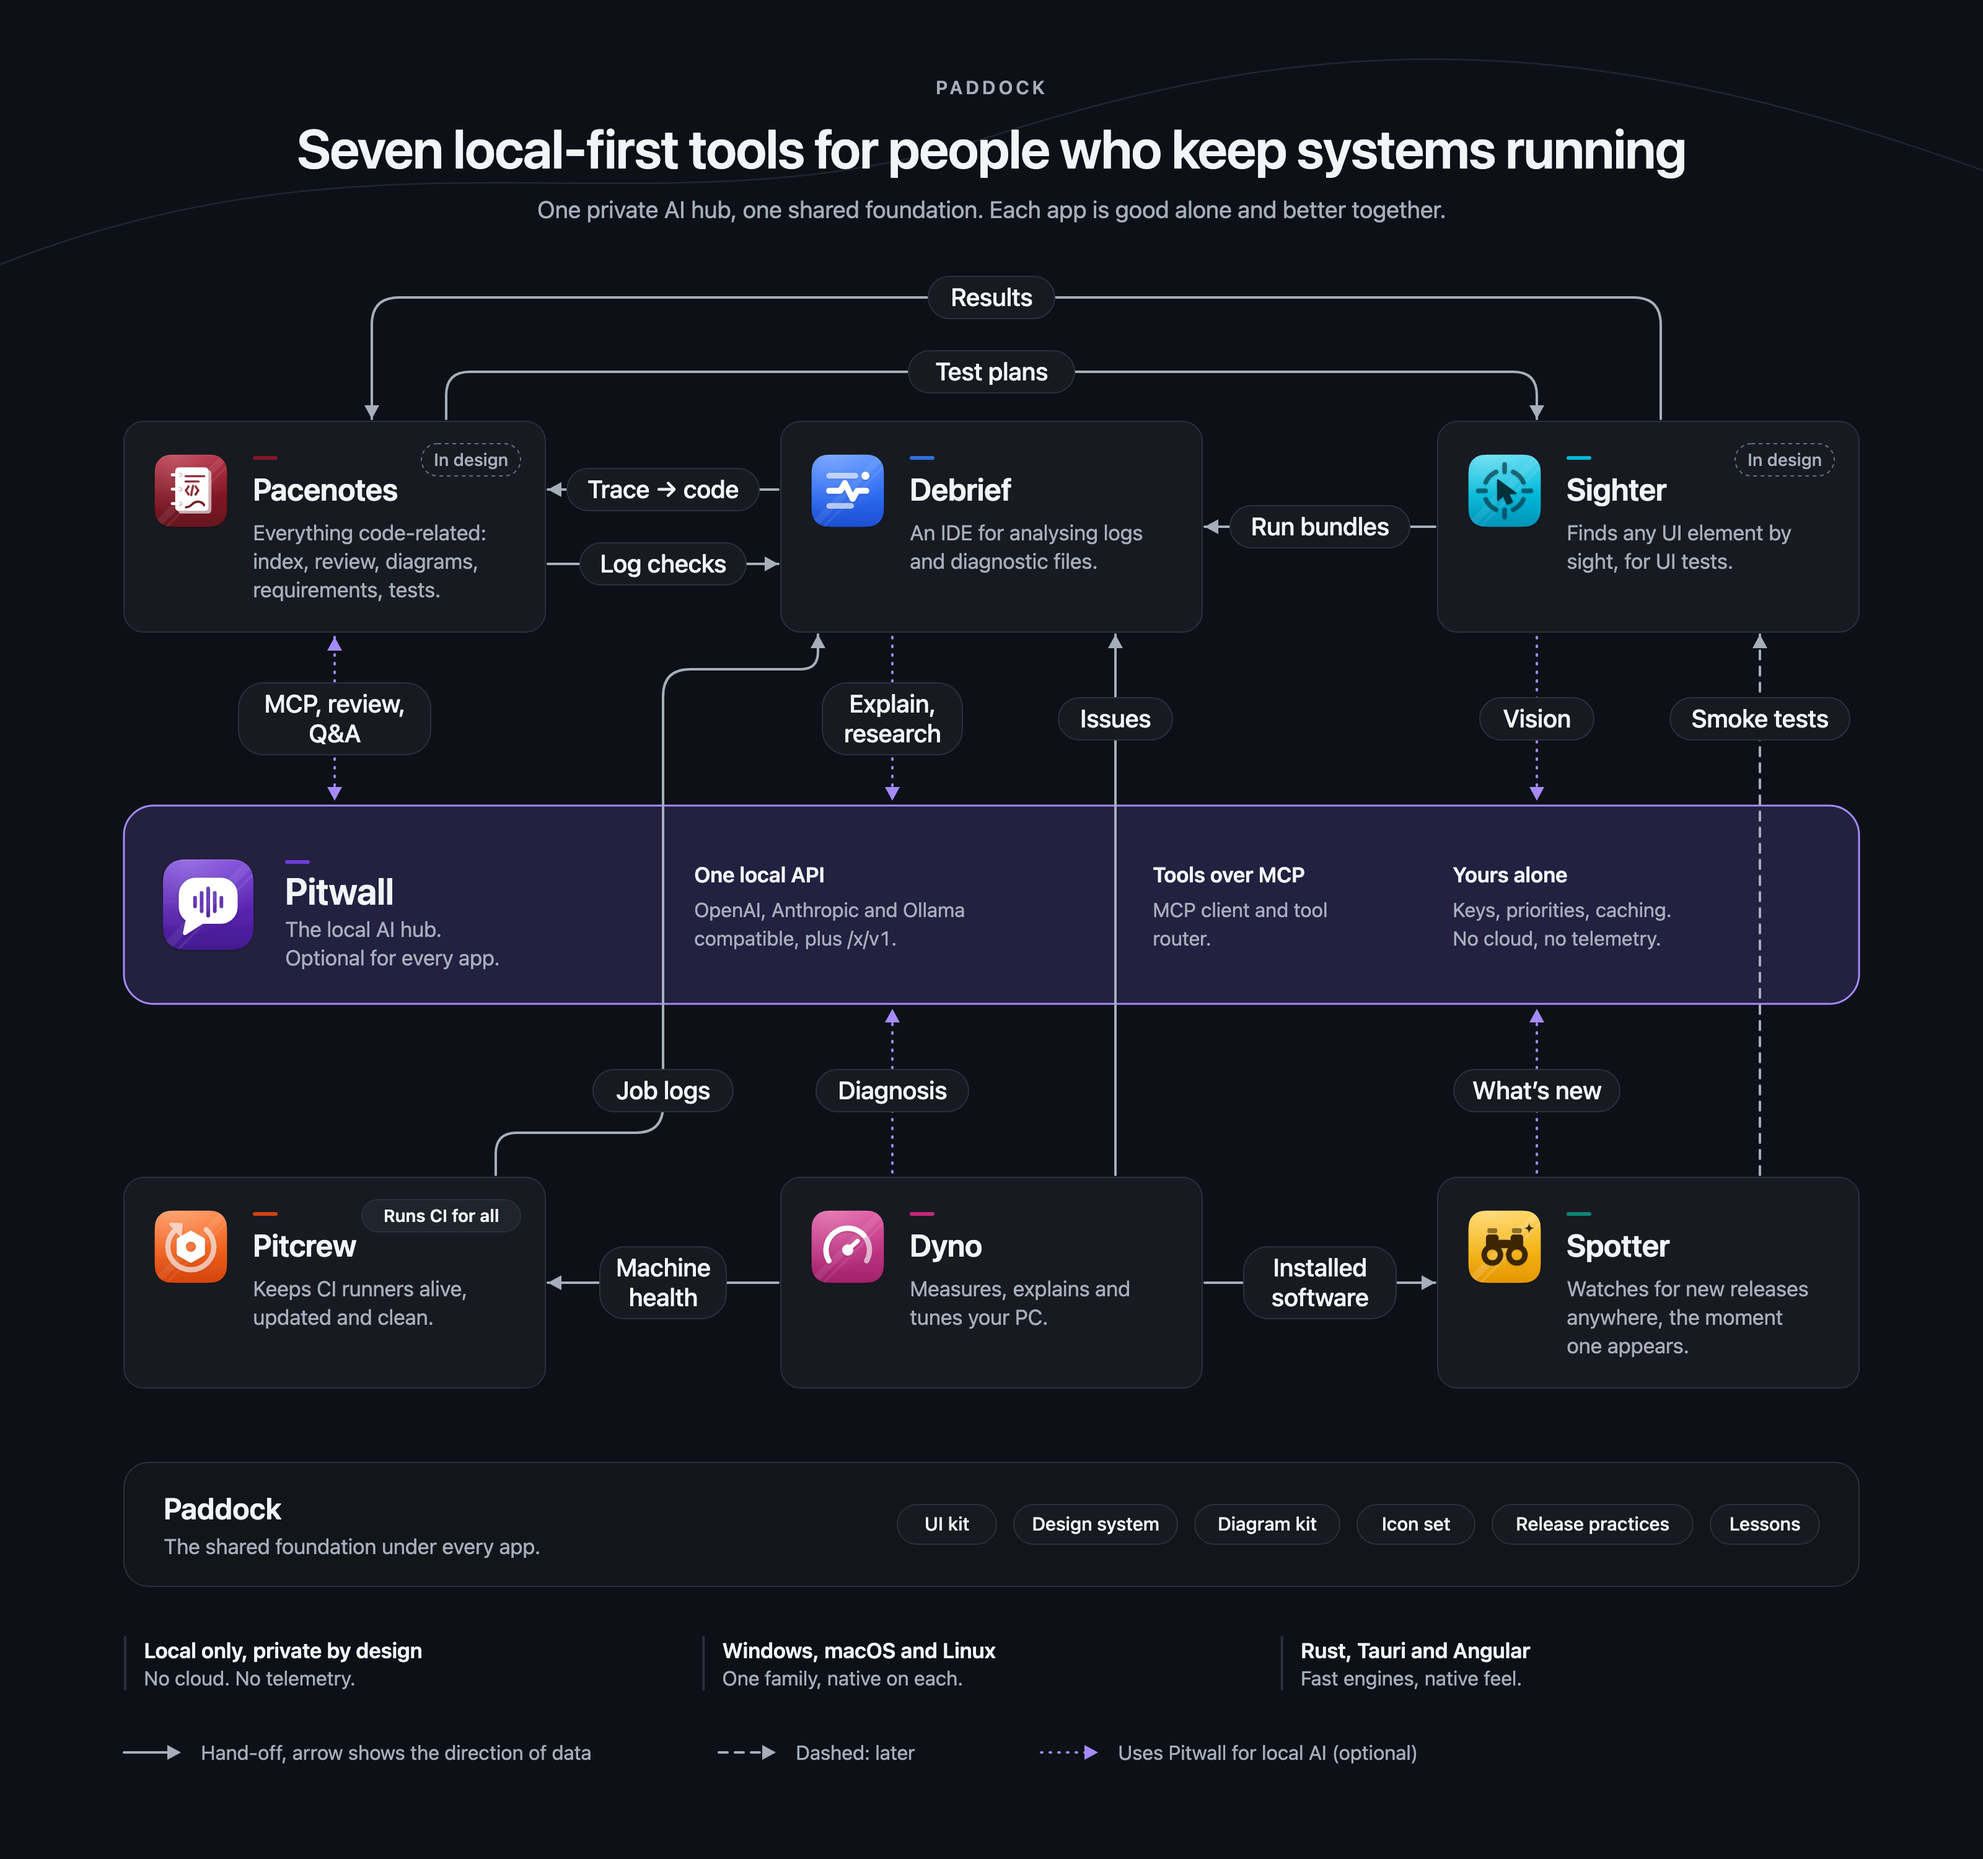
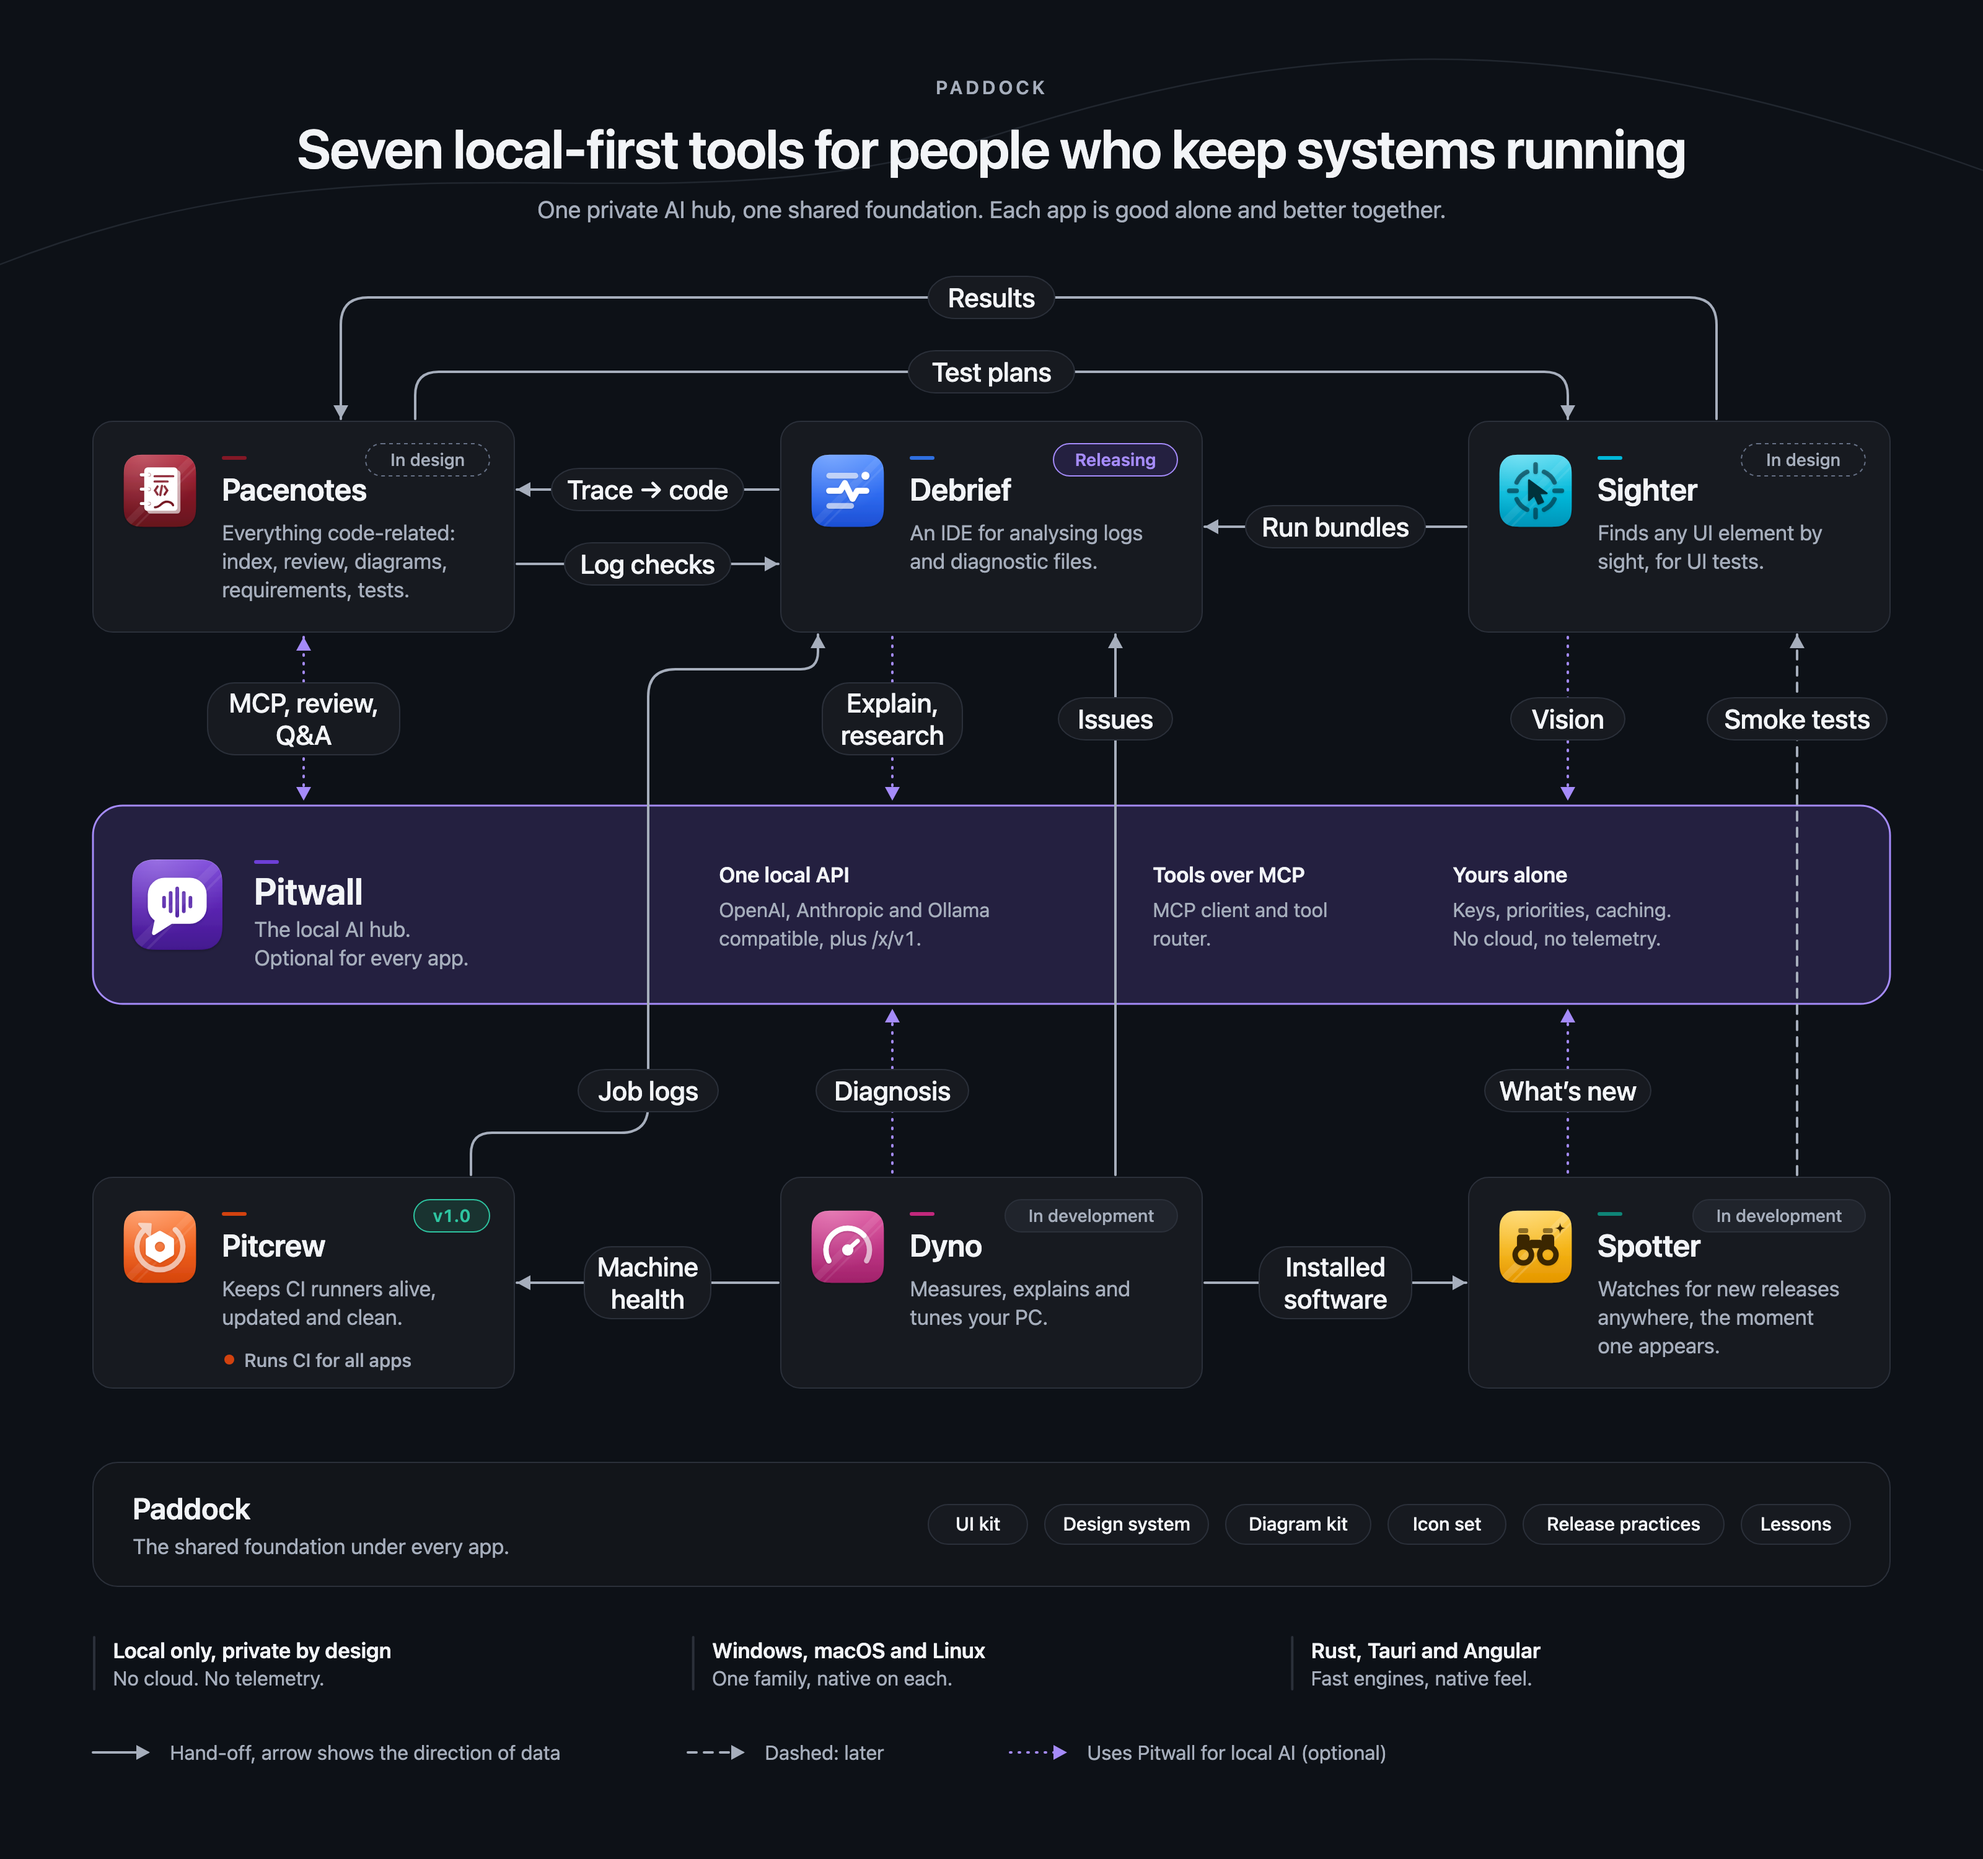
docs: status chips on the family hero [skip ci]

diff --git a/README.md b/README.md
@@ -16,9 +16,9 @@ anywhere.
 
 | | App | What it does | Status |
 |---|---|---|---|
-| <img src="icons/debrief/debrief-macos.svg" width="40" alt=""> | **[Debrief](https://dev.decryptology.net/decryp7/debrief)** | An IDE for analysing logs and diagnostic files: one merged timeline across processes and machines. | Release in progress (the code still says IMT while the rename lands) |
+| <img src="icons/debrief/debrief-macos.svg" width="40" alt=""> | **[Debrief](https://dev.decryptology.net/decryp7/debrief)** | An IDE for analysing logs and diagnostic files: one merged timeline across processes and machines. | Releasing (the code still says IMT while the rename lands) |
 | <img src="icons/pitcrew/pitcrew-macos.svg" width="40" alt=""> | **[Pitcrew](https://dev.decryptology.net/decryp7/pitcrew)** | Keeps self-hosted CI runners alive, updated and clean. | **v1.0.0 released** |
-| <img src="icons/pitwall/pitwall-macos.svg" width="40" alt=""> | **[Pitwall](https://dev.decryptology.net/decryp7/pitwall)** | The private, local AI hub: OpenAI-, Anthropic- and Ollama-compatible APIs over models on your machine. | Feature-complete, release next |
+| <img src="icons/pitwall/pitwall-macos.svg" width="40" alt=""> | **[Pitwall](https://dev.decryptology.net/decryp7/pitwall)** | The private, local AI hub: OpenAI-, Anthropic- and Ollama-compatible APIs over models on your machine. | Release next (feature-complete) |
 | <img src="icons/dyno/dyno-macos.svg" width="40" alt=""> | **[Dyno](https://dev.decryptology.net/decryp7/dyno)** | Measures, explains and tunes your PC, observe first. | In development |
 | <img src="icons/spotter/spotter-macos.svg" width="40" alt=""> | **[Spotter](https://dev.decryptology.net/decryp7/spotter)** | Watches for new releases anywhere and tells you the moment one appears. | In development |
 | <img src="icons/sighter/sighter-macos.svg" width="40" alt=""> | **[Sighter](https://dev.decryptology.net/decryp7/sighter)** | Finds any UI element by sight, so UI tests work even without an accessibility tree. | In design |
